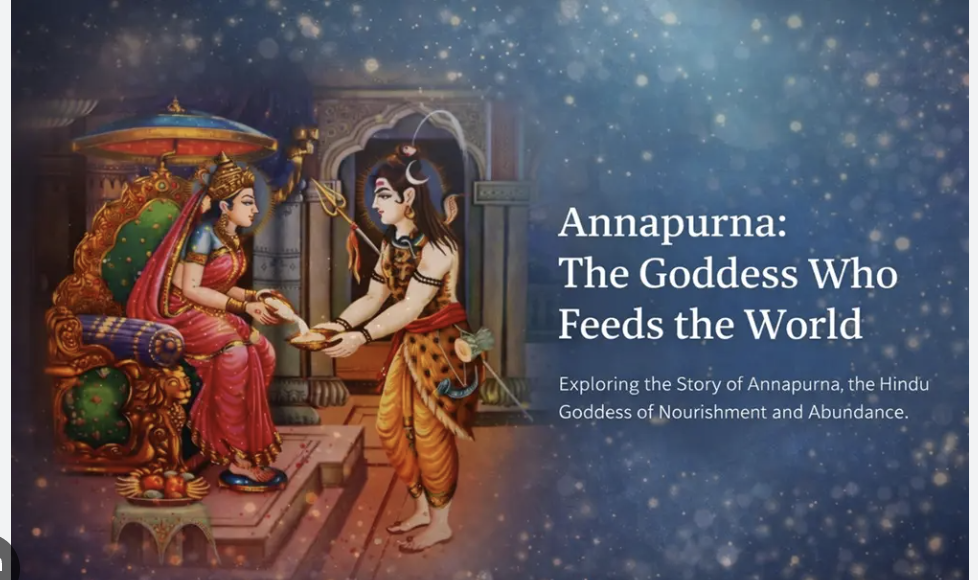
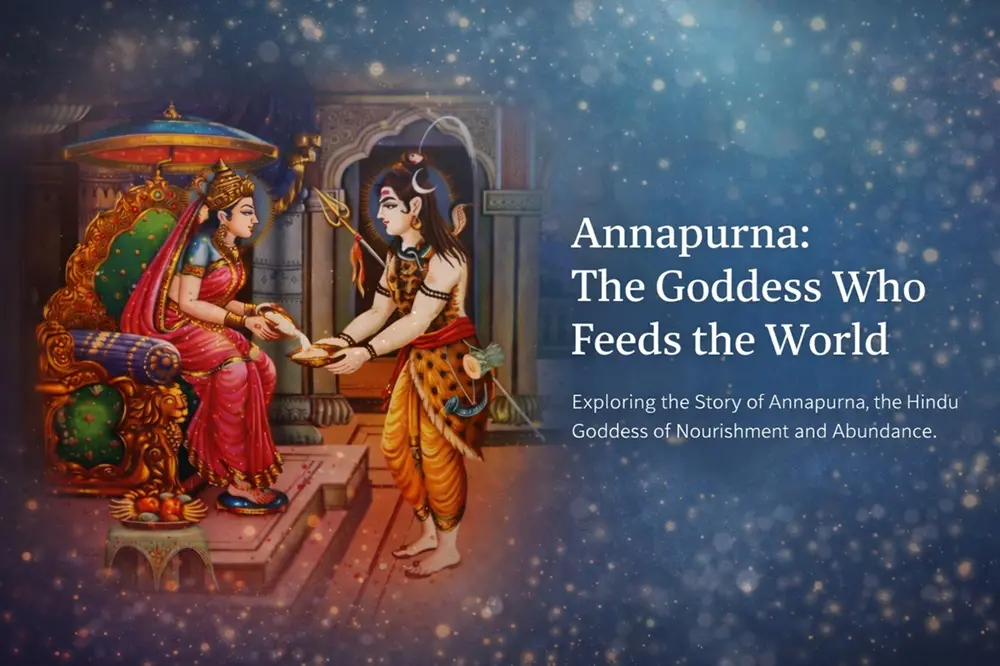
Update hero Annapurna image to new devotional artwork.
Replace annapurna.png and adjust hero frame aspect ratio for full banner fit.

diff --git a/src/components/HeroSection.tsx b/src/components/HeroSection.tsx
@@ -98,13 +98,13 @@ export function HeroSection() {
         <div className="hero-item relative mx-auto w-full max-w-xl lg:max-w-2xl">
           <div className="hero-glow-ring absolute -inset-4 rounded-3xl opacity-60" aria-hidden />
           <div className="annapurna-frame relative overflow-hidden rounded-2xl border-2 border-[#f5a623]/50 shadow-2xl shadow-[#f5a623]/25 animate-float">
-            <div className="relative aspect-[978/580] w-full overflow-hidden bg-[#0a1628]">
+            <div className="relative aspect-[1000/666] w-full overflow-hidden bg-[#0a1628]">
               <Image
                 src={IMAGES.annapurna}
-                alt="அன்னபூரணி — Goddess Annapurna feeding the world with rice and nourishment"
+                alt="Annapurna — Hindu goddess of nourishment and abundance, feeding the world"
                 fill
                 priority
-                className="object-contain object-center"
+                className="object-cover object-center"
                 sizes="(max-width: 1024px) 95vw, 640px"
               />
               {/* Subtle sparkle overlay like reference art */}
